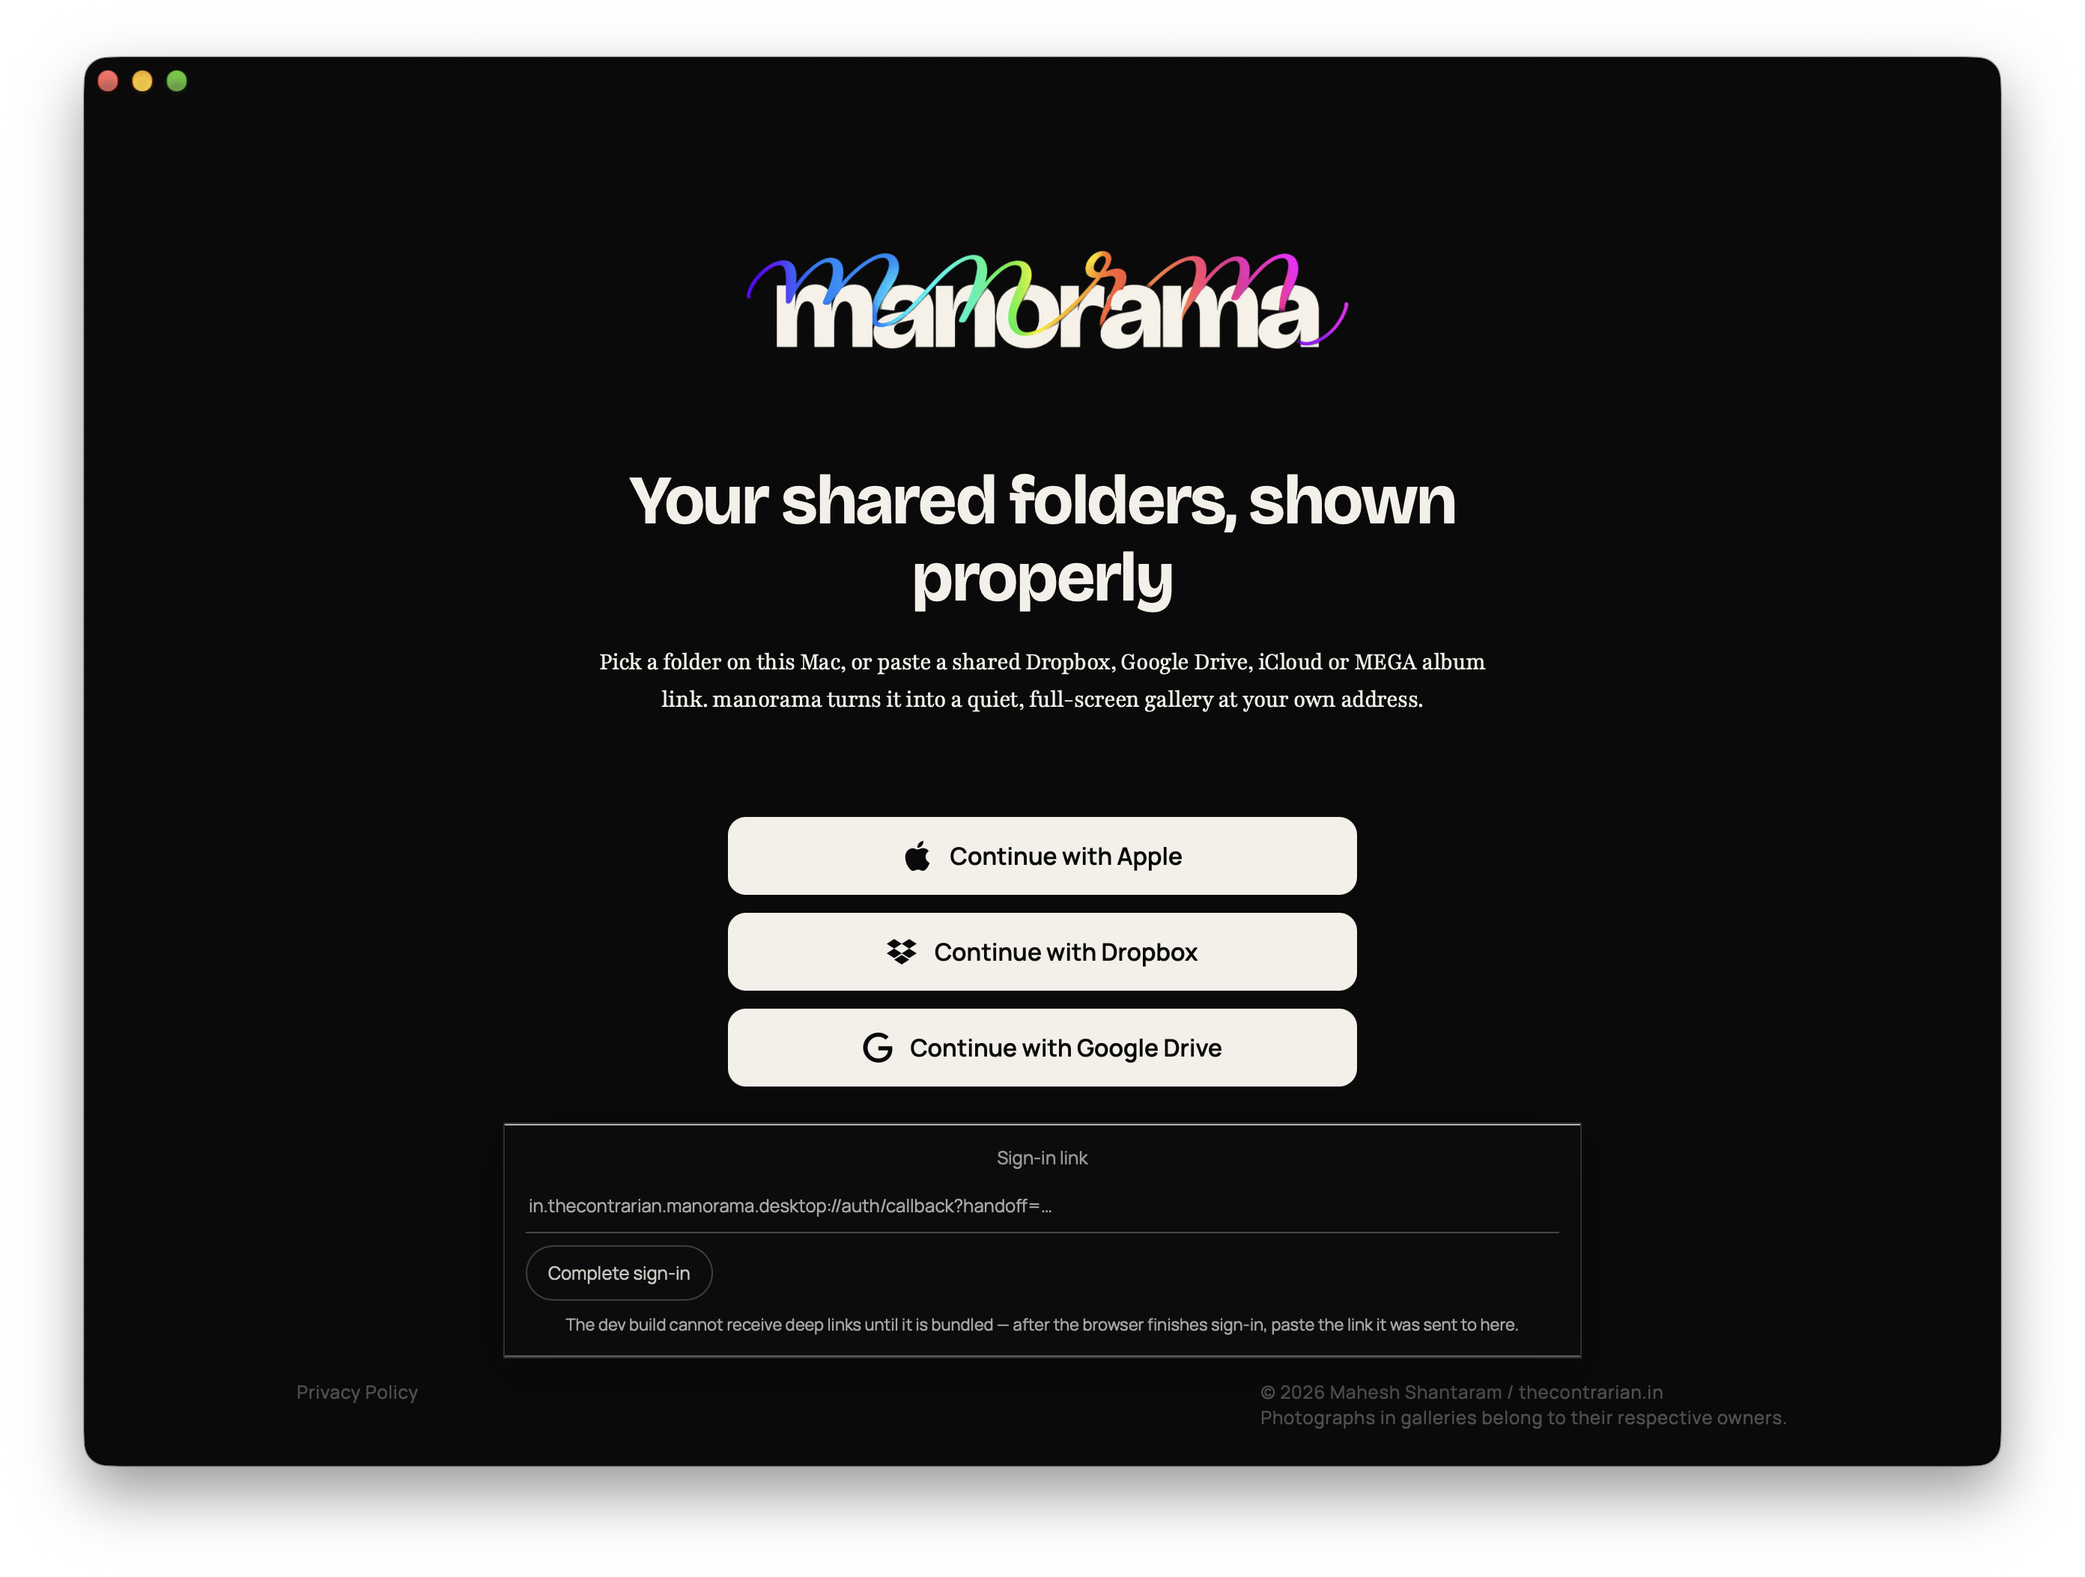
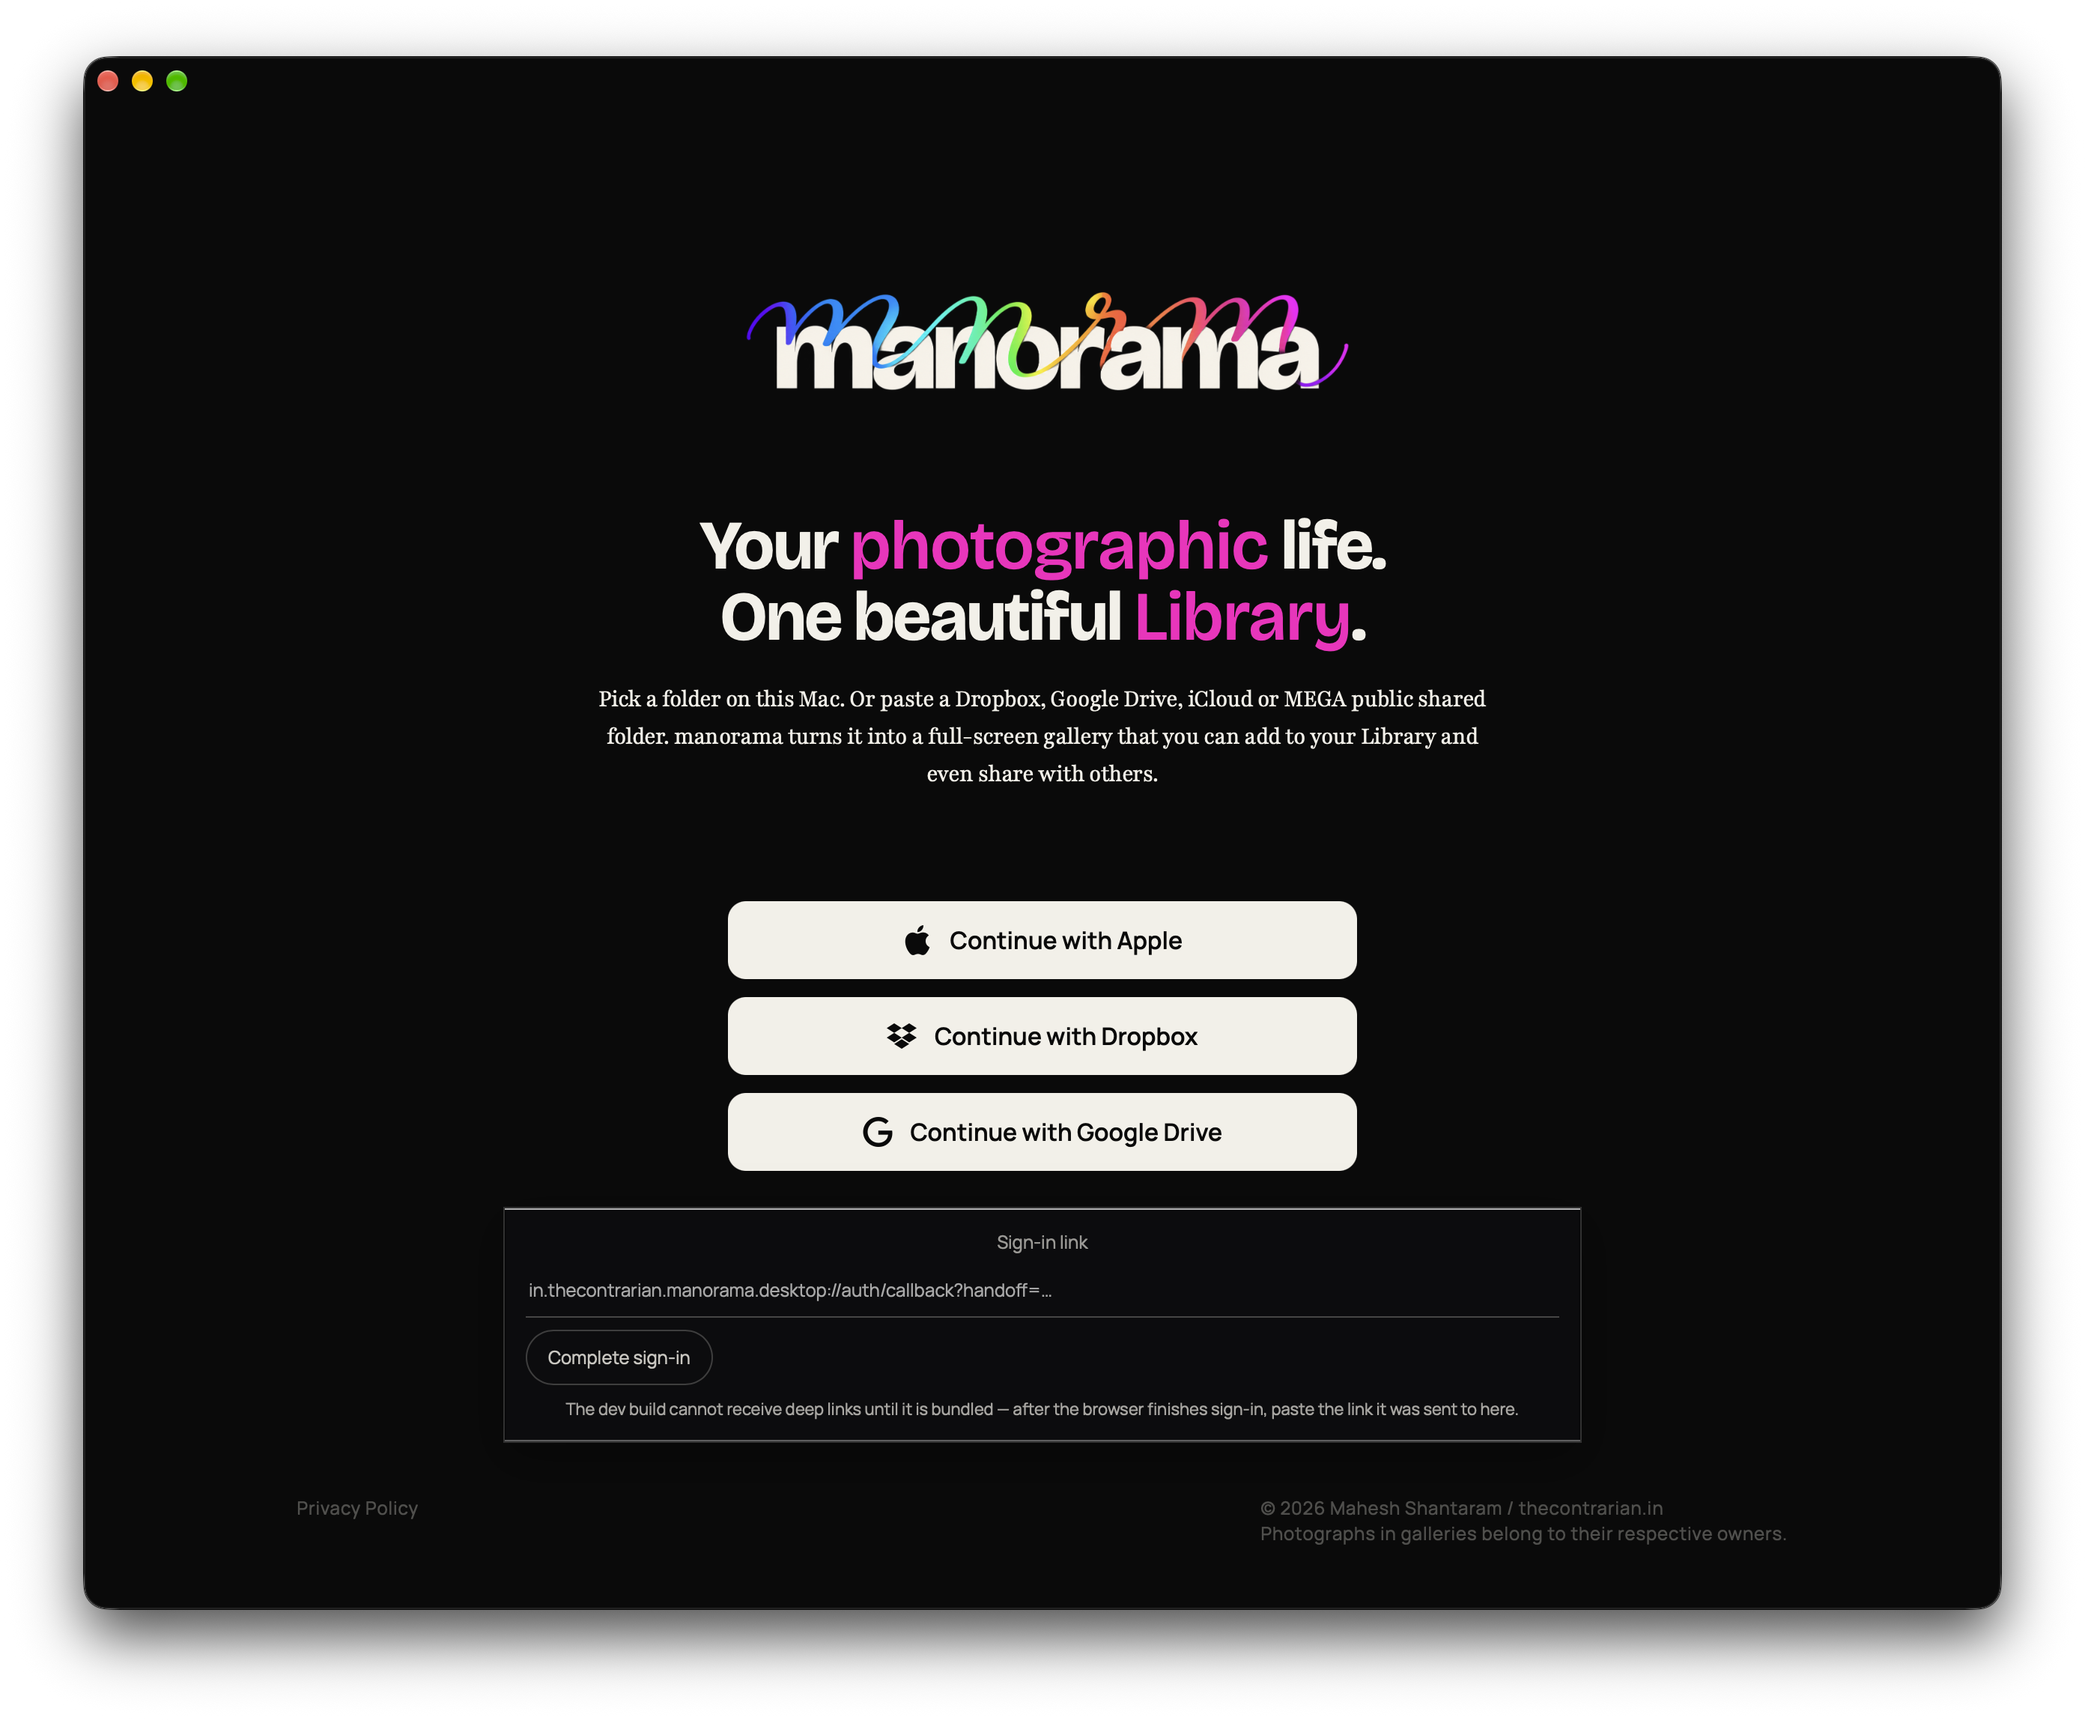
feat(desktop): welcome carries the homepage headline and copy
The welcome h1 becomes "Your photographic life. One beautiful Library."
with the homepage's italic pink accent words, and the lede names the
Library and sharing outcomes instead of the old album-link phrasing.
The native door gets the same headline — one product voice.

diff --git a/desktop/islands/Catalogue.tsx b/desktop/islands/Catalogue.tsx
@@ -2625,8 +2625,8 @@ export default function Catalogue({ apiBase }: { apiBase: string }) {
                 <img src="/manorama-merged-logo.png" alt="manorama" class="landing-brand-mark" />
               </span>
             </header>
-            <h1>Your shared folders, shown properly</h1>
-            <p class="landing-brand-intro">Pick a folder on this Mac, or paste a shared Dropbox, Google Drive, iCloud or MEGA album link. manorama turns it into a quiet, full-screen gallery at your own address.</p>
+            <h1><span class="desktop-welcome-h1-line">Your <em>photographic</em> life.</span> <span class="desktop-welcome-h1-line">One beautiful <em>Library</em>.</span></h1>
+            <p class="landing-brand-intro">Pick a folder on this Mac. Or paste a Dropbox, Google Drive, iCloud or MEGA public shared folder. manorama turns it into a full-screen gallery that you can add to your Library and even share with others.</p>
             <div class="desktop-signin">
               {[...SIGN_IN_PROVIDERS]
                 .sort((a, b) => (a.id === 'apple' ? -1 : b.id === 'apple' ? 1 : 0))

diff --git a/desktop/styles.css b/desktop/styles.css
@@ -56,13 +56,22 @@ body.manorama-desktop {
 }
 .desktop-welcome-header { display: grid; place-items: center; }
 .desktop-welcome-header .landing-brand-mark { width: clamp(300px, 32vw, 520px); max-width: 100%; }
+/* The headline is the homepage's: same two lines, same italic accent words in
+   the signature pink — the surface reads as one product door. */
 .desktop-welcome h1 {
   margin: clamp(26px, 4vh, 48px) auto 0;
   font-family: 'Bricolage Grotesque', 'Manrope', ui-sans-serif, system-ui, sans-serif;
   font-size: clamp(30px, 4.6vw, 46px);
   font-weight: 700;
-  letter-spacing: -.03em;
-  line-height: 1.12;
+  letter-spacing: -.035em;
+  line-height: 1.04;
+}
+.desktop-welcome-h1-line { display: block; white-space: nowrap; }
+.desktop-welcome h1 em {
+  font-style: italic;
+  font-weight: 560;
+  letter-spacing: -.01em;
+  color: #fc0fc0;
 }
 .desktop-welcome .landing-brand-intro {
   max-width: 38rem;

diff --git a/native/styles.css b/native/styles.css
@@ -1014,6 +1014,8 @@ body.manorama-native[data-native-fold-divided] .native-library-layout .native-se
 .native-welcome-logo { position: relative; display: inline-flex; justify-self: start; align-items: flex-end; gap: 5px; min-height: 47px; }
 .native-welcome-logo img { display: block; width: 140px; height: 47px; object-fit: contain; }
 .native-welcome-focal h1 { max-width: 20ch; margin: 0; font-size: clamp(30px, 8vw, 48px); line-height: 1.08; letter-spacing: -.035em; }
+.native-welcome-h1-line { display: block; }
+.native-welcome-focal h1 em { font-style: italic; font-weight: 560; letter-spacing: -.01em; color: var(--m-data); }
 .native-welcome-focal p { max-width: 46ch; margin: 0; color: var(--m-secondary); font-size: 17px; line-height: 1.5; }
 .native-welcome-providers { width: min(100%, 480px); display: grid; gap: 12px; }
 .native-welcome-provider {

diff --git a/native/islands/Welcome.tsx b/native/islands/Welcome.tsx
@@ -21,7 +21,7 @@ export default function Welcome({ signedIn, onSignIn, authError, pendingQuickAdd
         <span class="native-welcome-logo">
           <img src="/manorama-merged-logo.png" width="140" height="47" alt="manorama" />
         </span>
-        <h1>Your shared folders, shown properly</h1>
+        <h1><span class="native-welcome-h1-line">Your <em>photographic</em> life.</span> <span class="native-welcome-h1-line">One beautiful <em>Library</em>.</span></h1>
         <p>Paste a Dropbox, Google Drive, iCloud or MEGA link. manorama turns it into a quiet, full-screen gallery at your own address.</p>
       </div>
       {accountAdAside}
